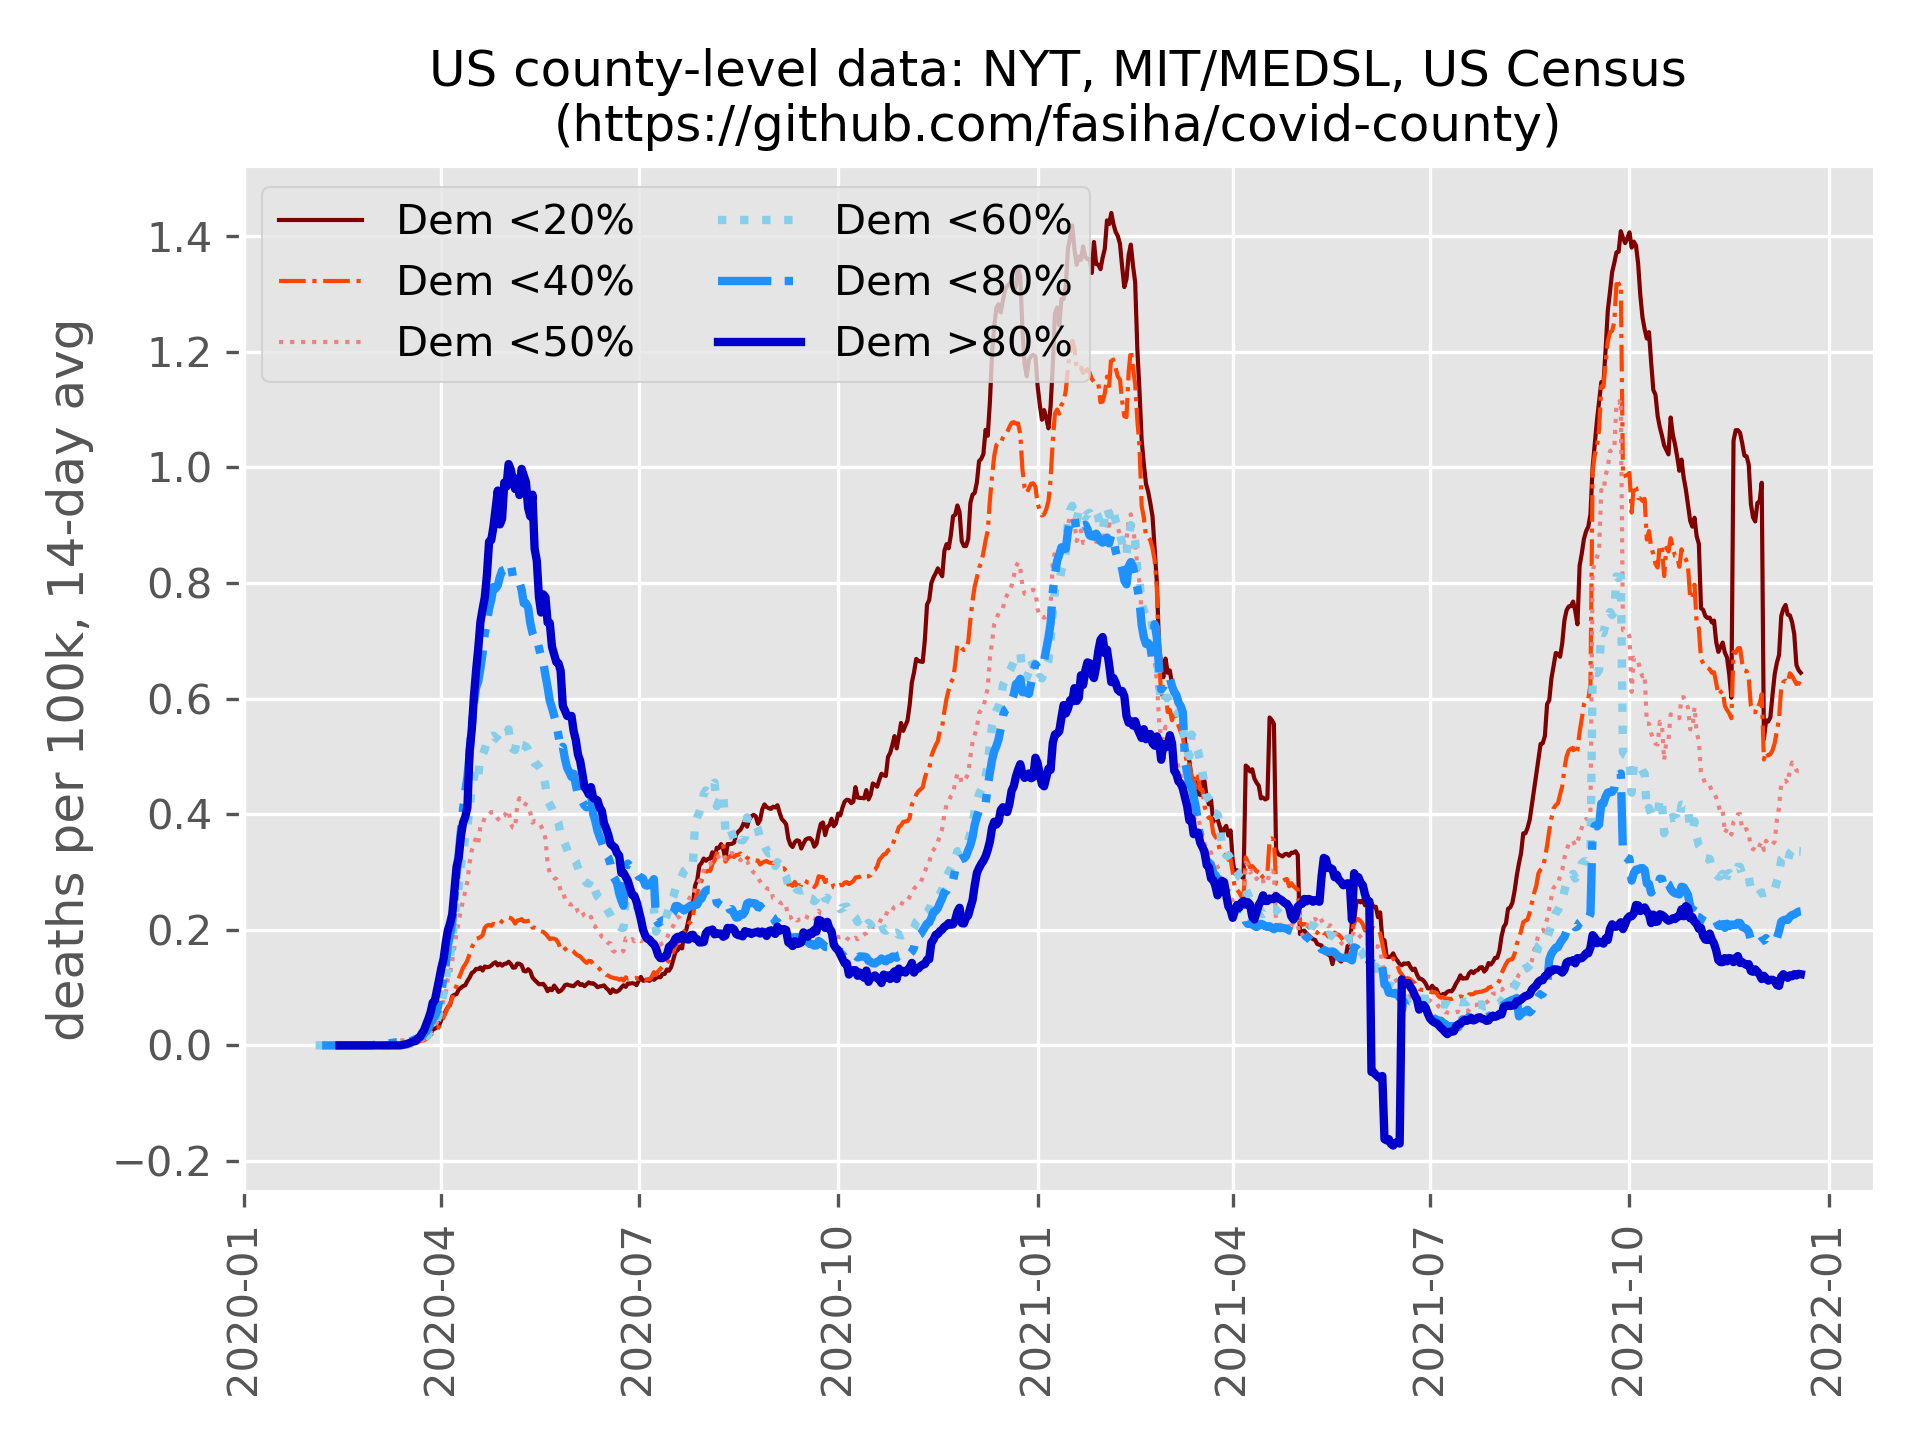
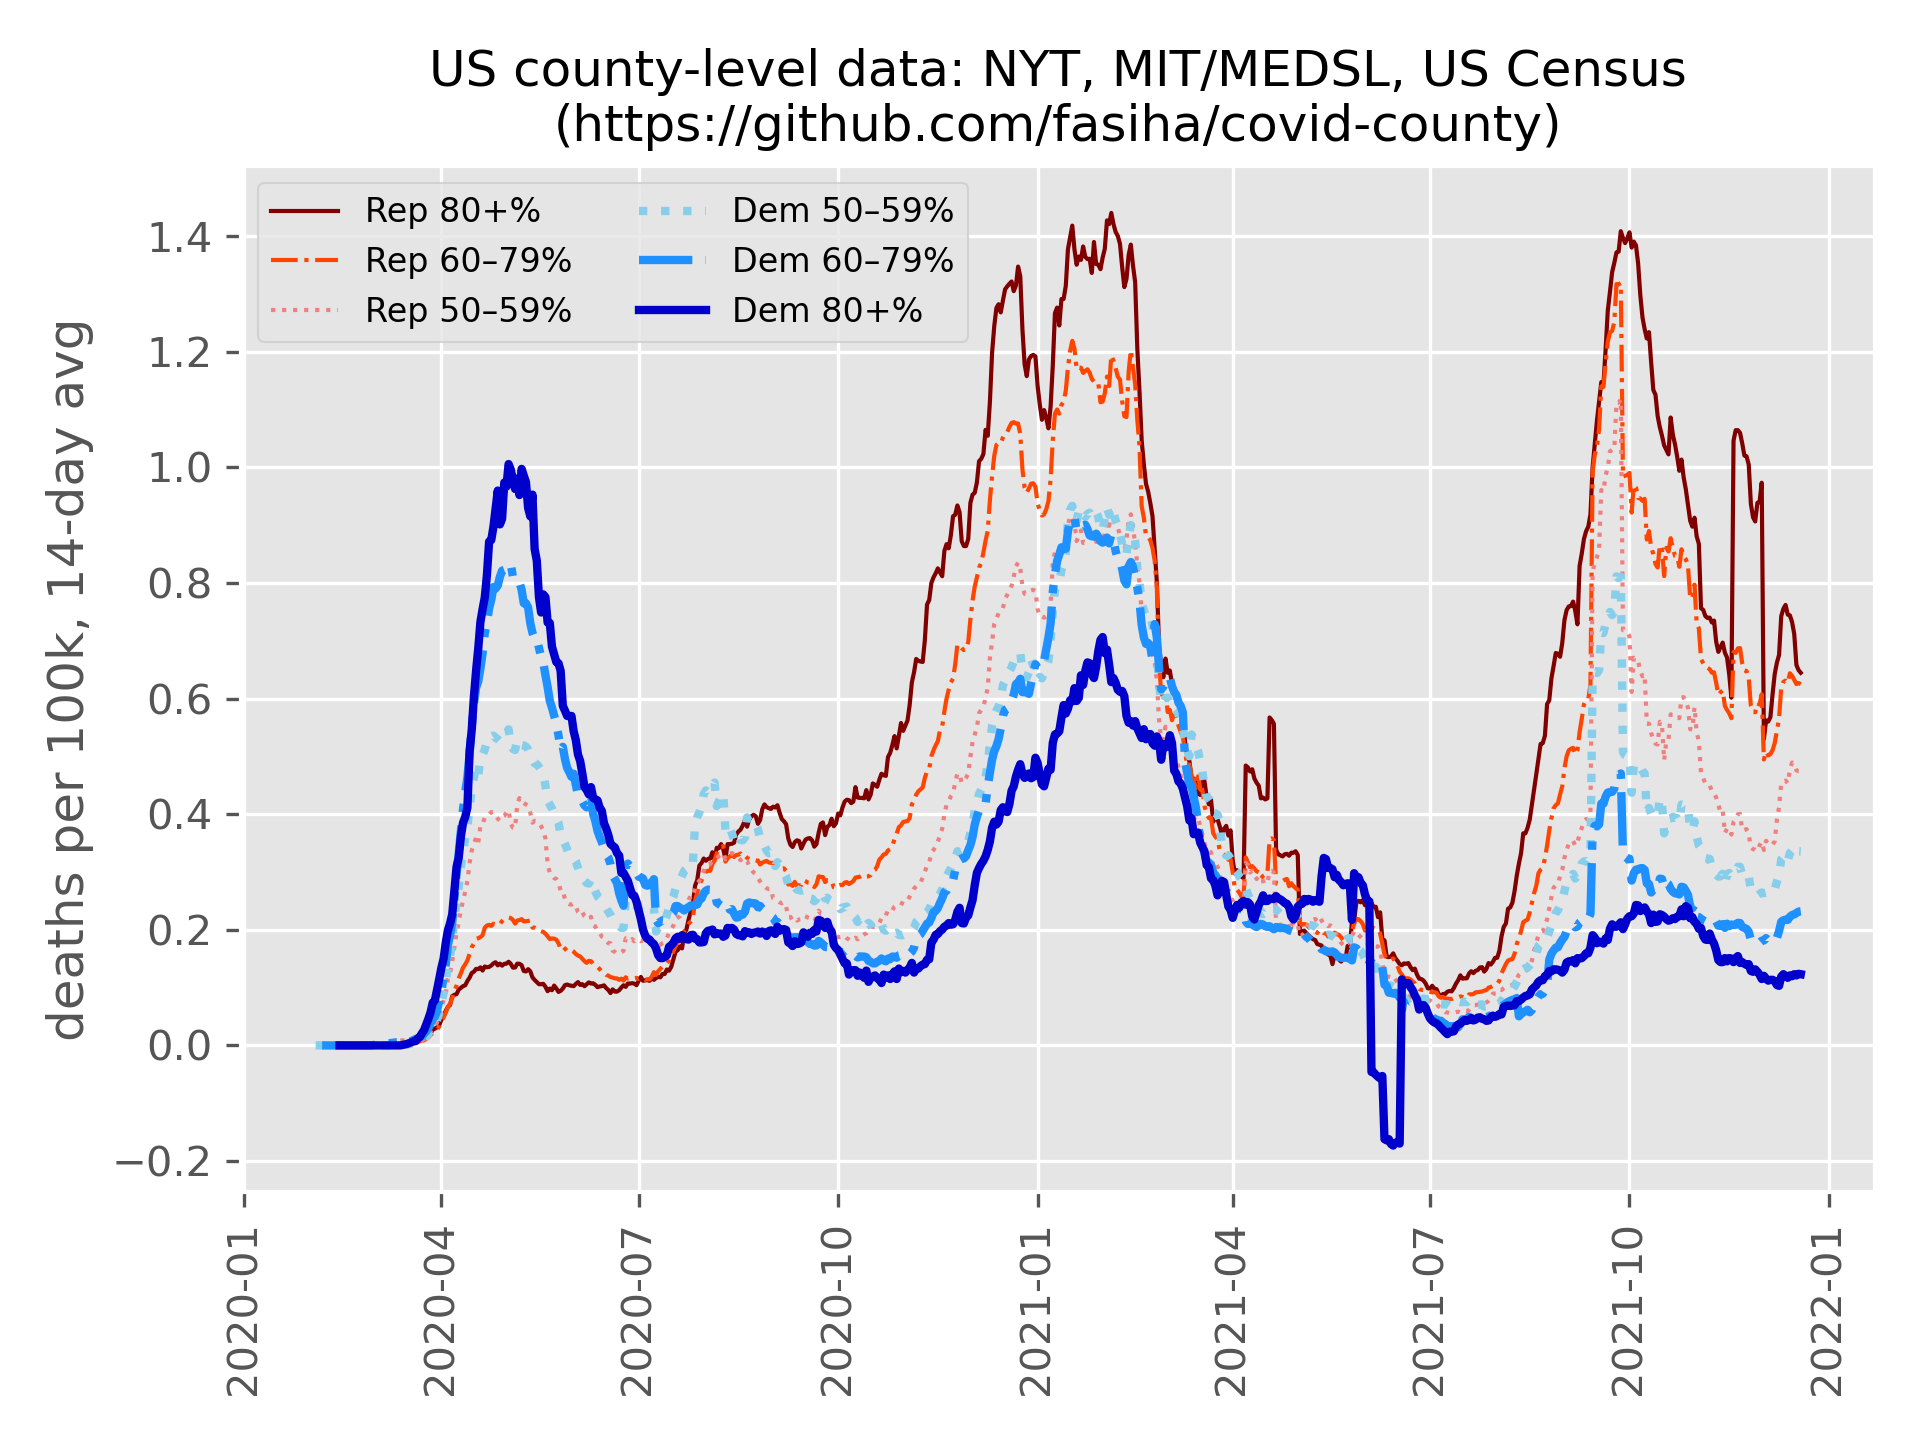
improved party labels, match original

Changed region(s): [[0.1562, 0.125, 0.5625, 0.2812]]

diff --git a/main.py b/main.py
@@ -56,7 +56,24 @@ print(MISSING_VOTE_DATA)
 
 
 def bin_names(edges=(0.2, 0.4, 0.5, 0.6, 0.8)) -> list[str]:
-  return [f'Dem <{round(100*x)}%' for x in edges] + [f'Dem >{round(100*x)}%' for x in edges[-1:]]
+  ret = []
+  padded = (-1,) + edges + (-1,)
+  for l, r in zip(padded, padded[1:]):
+    if l < 0 or r < 0:
+      if l < 0:
+        # left edge
+        ret.append(f'Rep {round(100*(1-r))}+%')
+      else:
+        ret.append(f'Dem {round(100*l)}+%')
+    else:
+      l = round(l * 100)
+      r = round(r * 100)
+      if l < 50:
+        ret.append(f'Rep {100-r}–{100-l-1}%')
+      else:
+        ret.append(f'Dem {l}–{r-1}%')
+    print(l, r, ret[-1])
+  return ret
 
 
 def pct_to_bin(pct: float, edges=(0.2, 0.4, 0.5, 0.6, 0.8)):
@@ -71,7 +88,7 @@ geoid_to_deaths['bin'] = [
 geoid_to_deaths.sort_values('deaths')
 
 by_bin = geoid_to_deaths.groupby('bin')['deaths'].sum()
-print(by_bin)
+print(by_bin.sort_index(ascending=False).to_markdown())
 
 by_party = geoid_to_deaths.dropna().groupby(
     lambda x: geoid_to_deaths.loc[x].dem > 0.5)['deaths'].sum()
@@ -122,7 +139,7 @@ ax.set_title(
     fontsize=12)
 ax.set_ylabel('total deaths, 14-day avg')
 plt.setp(ax.xaxis.get_majorticklabels(), rotation=90)
-ax.legend(loc='best', ncol=2)
+ax.legend(loc='best', ncol=2, prop={'size': 8})
 plt.tight_layout()
 
 plt.savefig('total_deaths.png', dpi=300)
@@ -146,7 +163,7 @@ ax.set_title(
     fontsize=12)
 ax.set_ylabel('deaths per 100k, 14-day avg')
 plt.setp(ax.xaxis.get_majorticklabels(), rotation=90)
-ax.legend(loc='best', ncol=2)
+ax.legend(loc='best', ncol=2, prop={'size': 8})
 plt.tight_layout()
 
 plt.savefig('per_capita_deaths.png', dpi=300)

diff --git a/README.md b/README.md
@@ -8,7 +8,7 @@ Install [miniconda](https://docs.conda.io/en/latest/miniconda.html), then in the
 ```console
 conda create -n covid-county
 conda activate covid-county
-conda install pandas ipython matplotlib
+conda install pandas ipython matplotlib tabulate
 ```
 (Let me know if you want pure-Python no-Conda instructions via `venv`.)
 
@@ -33,14 +33,15 @@ python main.py
 
 ## More results
 | party bin | total Covid-19 deaths |
-|---|---|
-| Dem <20% |  38284|
-| Dem <40% | 211416|
-| Dem <50% | 123587|
-| Dem <60% | 196084|
-| Dem <80% | 210070|
-| Dem >80% |  18331|
-| unknown   |   5243| 
+|:-----------|---------:|
+| Rep 80+%   |    38284 |
+| Rep 60–79% |   211416 |
+| Rep 50–59% |   123587 |
+| Dem 50–59% |   196084 |
+| Dem 60–79% |   210070 |
+| Dem 80+%   |    18331 |
+| unknown    |     5243 |
 
+Simply by party:
 - Dem: 424485
 - Rep: 373287
